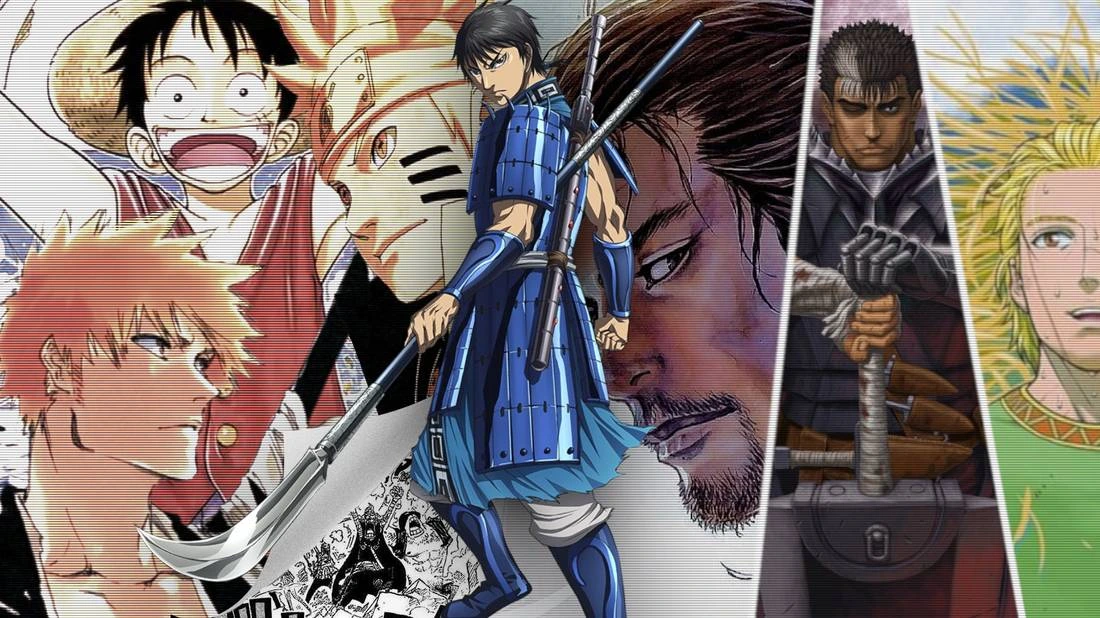
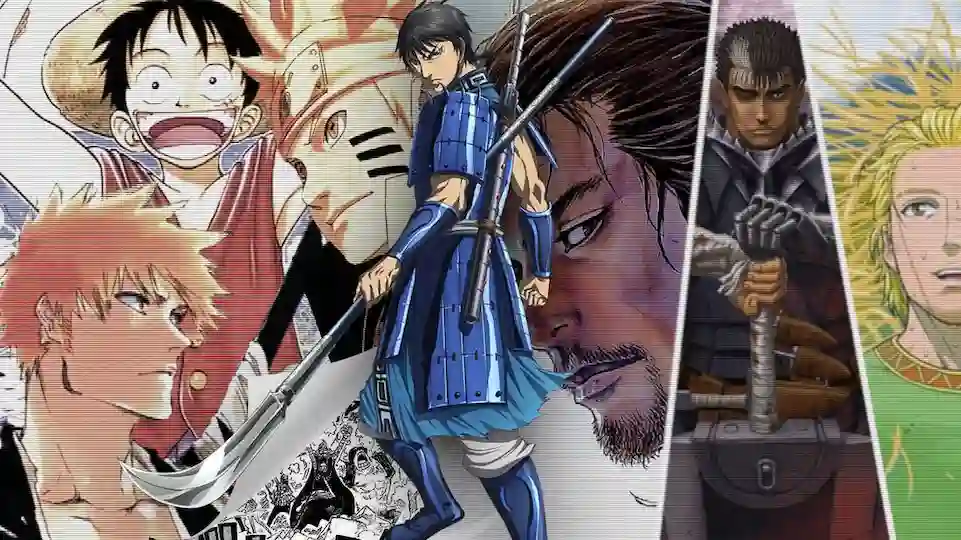
compressed the images for performance & changed the image urls

diff --git a/Theme/assets/add-ons/custom-media-covers-nightly.css b/Theme/assets/add-ons/custom-media-covers-nightly.css
@@ -28,8 +28,8 @@
     --urlMixedCover: url(https://raw.githubusercontent.com/lscambo13/ElegantFin/refs/heads/main/Theme/assets/img/library-covers/mixed.webp);
     --urlRecordedmoviesCover: url(https://raw.githubusercontent.com/lscambo13/ElegantFin/refs/heads/main/Theme/assets/img/library-covers/recordedmovies.webp);
     --urlRecordedtvCover: url(https://raw.githubusercontent.com/lscambo13/ElegantFin/refs/heads/main/Theme/assets/img/library-covers/recordedtv.webp);
-    --urlAnimeCover: url(https://raw.githubusercontent.com/buhbbl/ElegantFin/refs/heads/main/Theme/assets/img/library-covers/anime.webp);
-    --urlSportsCover: url(https://raw.githubusercontent.com/buhbbl/ElegantFin/refs/heads/main/Theme/assets/img/library-covers/sports.webp);
+    --urlAnimeCover: url(https://raw.githubusercontent.com/lscambo13/ElegantFin/refs/heads/main/Theme/assets/img/library-covers/anime.webp);
+    --urlSportsCover: url(https://raw.githubusercontent.com/lscambo13/ElegantFin/refs/heads/main/Theme/assets/img/library-covers/sports.webp);
 }
 
 [data-type="CollectionFolder"] .defaultCardBackground,
